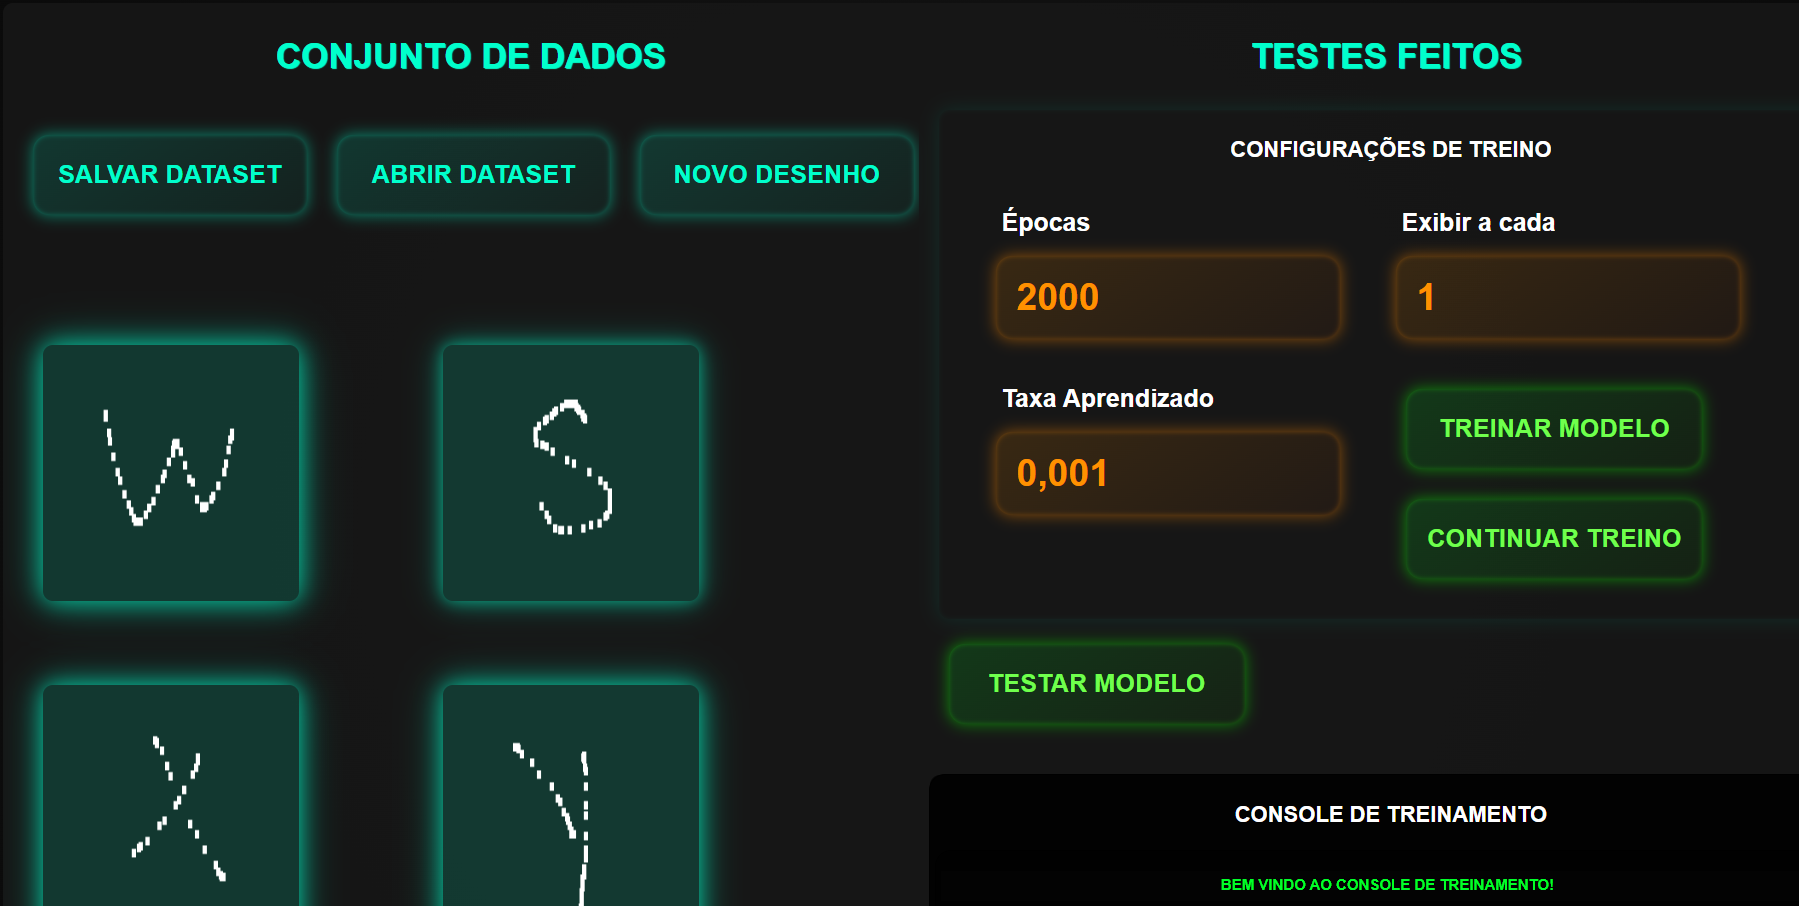
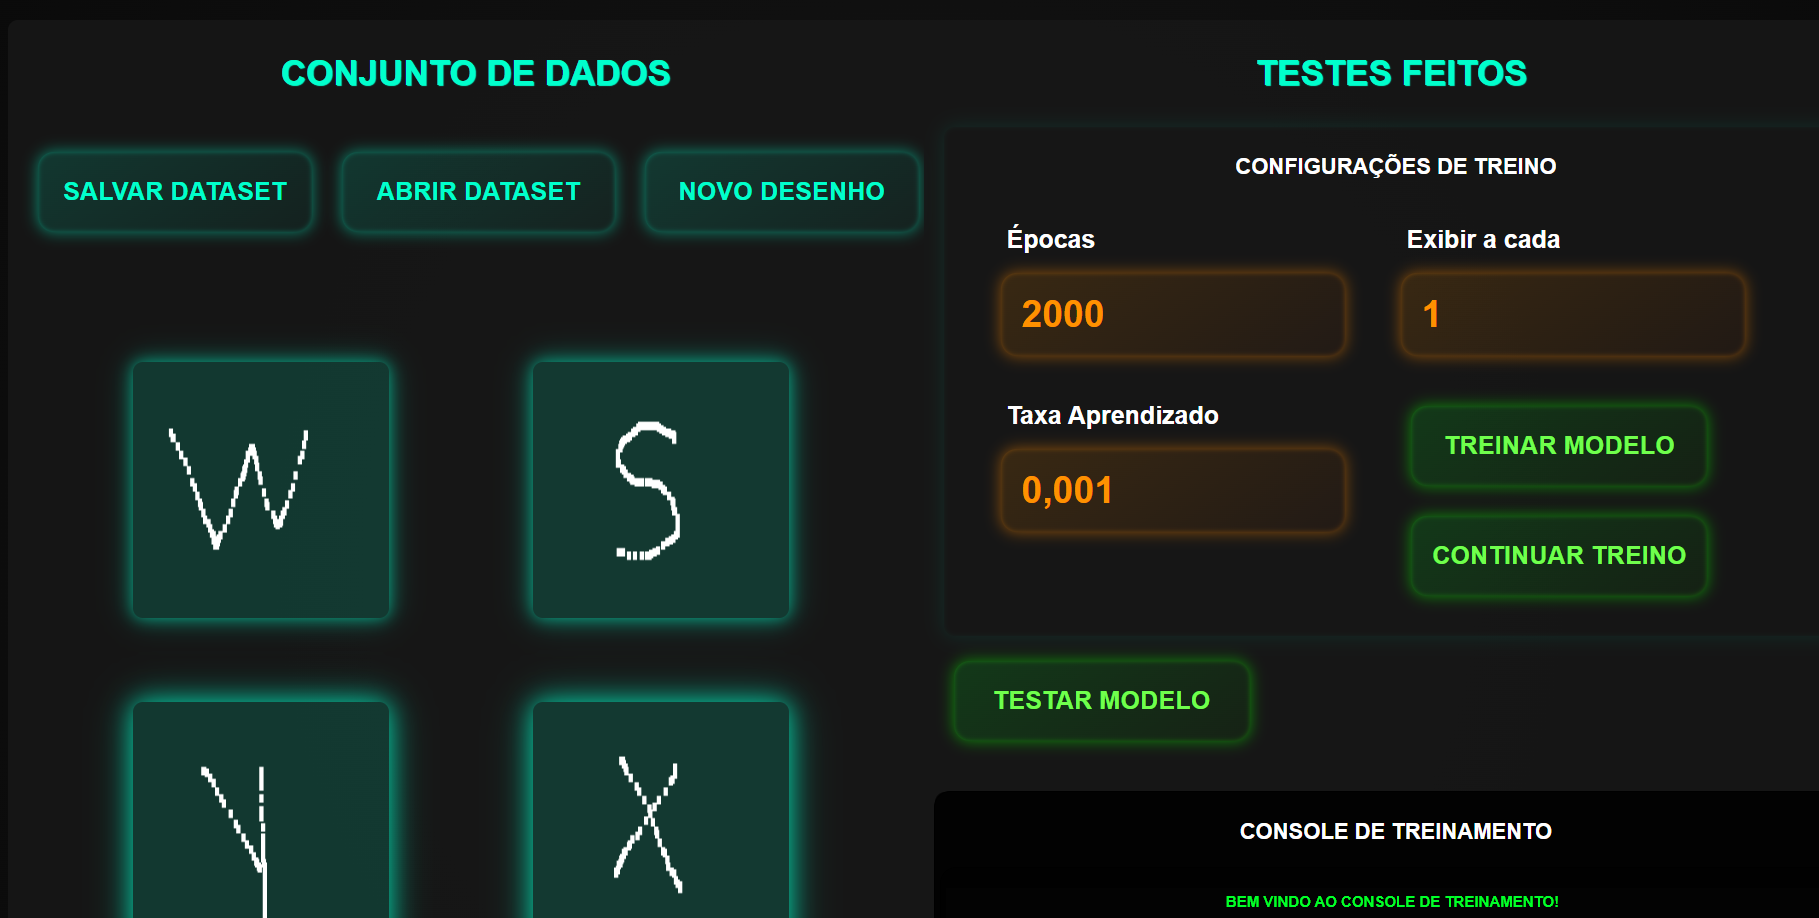
Melhorando CSS mobile e novas imagens

diff --git a/style.css b/style.css
@@ -157,6 +157,7 @@ input:hover {
     display: grid;
     grid-template-columns: 400px 400px;
     align-items: center;
+    margin-left: 85px;
 }
 
 #resultados-teste{
@@ -231,8 +232,9 @@ input:hover {
 
     #lista-dataset{
         padding: 9px;
-        margin-left: 15px;
+        margin-left: 195px;
         margin-top: 45px;
+        margin-bottom: 45px;
         width: 500px;
         height: auto;
         display: grid;
